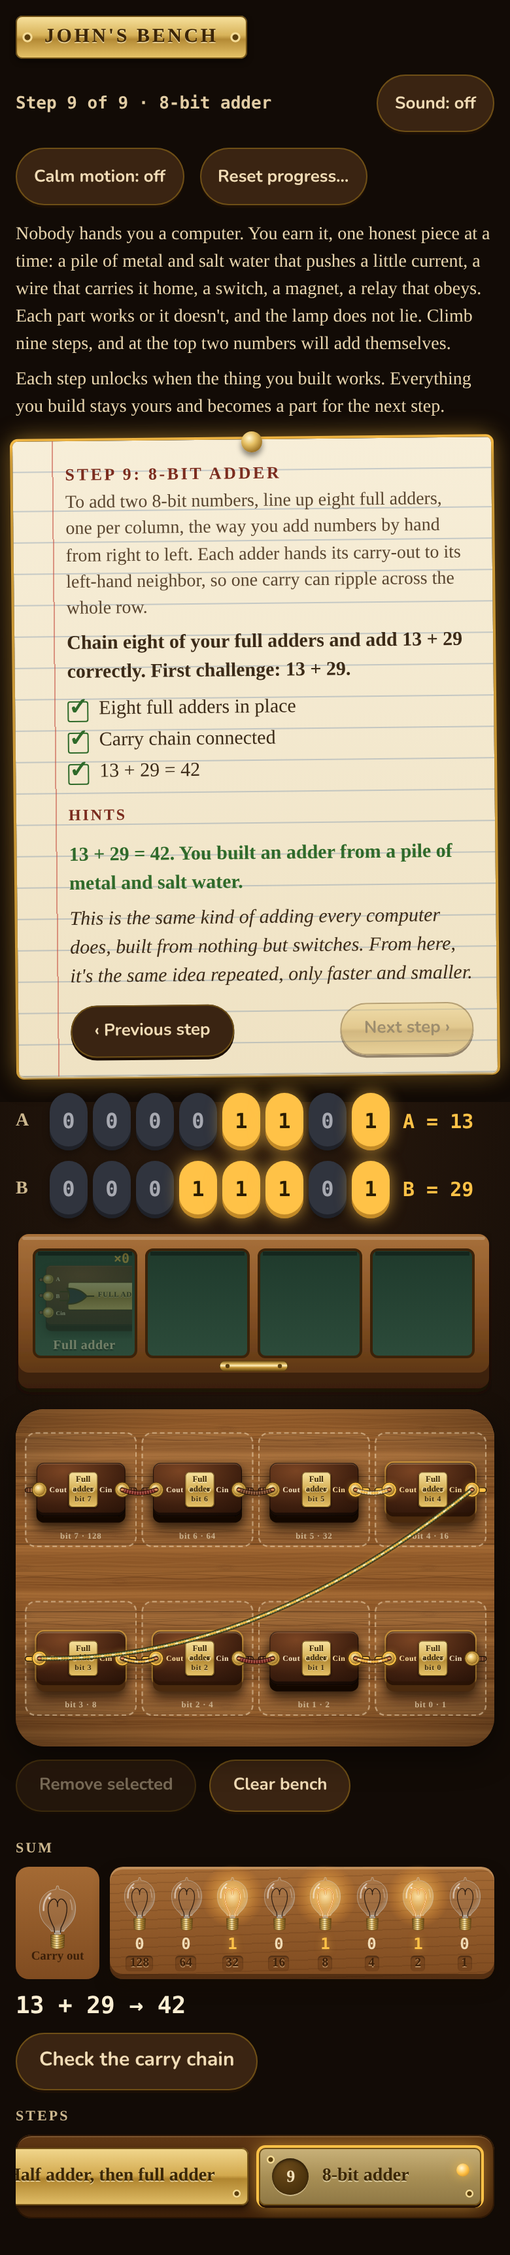
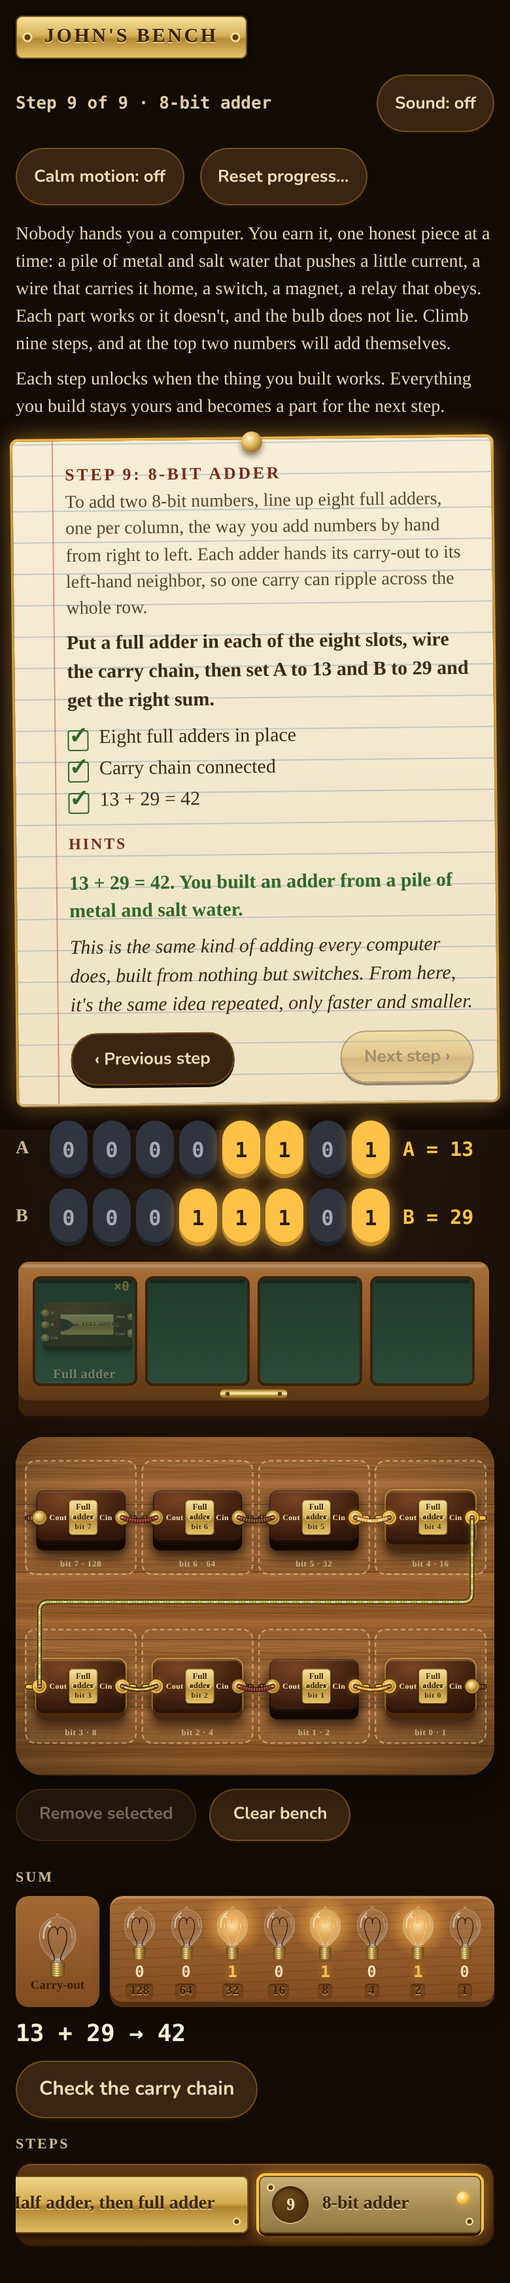
Ladder: Joseph's text pass (tooltips, bulb wording, step 7 challenges, step 9 goal)
- Load docs/ladder-tooltips.json (exact key, else most specific * pattern) as
  title attributes, or SVG <title> on wires, for static and dynamic ids
- Parse Step 7 'Challenge N' lines and show the current one; {target} in the
  goal is now the next target, and the success line names the number just made ({made})
- #test-ripple keeps the 13 + 29 = 42 reminder next to 'Carry chain connected: ✓'
- UI strings per Joseph: bulb wording, short/buzz/rowBad/relayPath, Carry-out,
  binClear 'All bulbs off', outPart
- Fit the full-adder tray thumbnail; on phones the bit 3 -> bit 4 carry runs along the gap
- Tests: ladder 33/33, classic 29/29

diff --git a/js/ladder/app.js b/js/ladder/app.js
@@ -13,22 +13,23 @@
     parts: { cell: 'Cell', pile: 'Your pile', lamp: 'Bulb', knife: 'Knife switch', 'knife-a': 'Switch A', 'knife-b': 'Switch B', magnet: 'Electro- magnet', relay: 'Relay',
       NOT: 'NOT', AND: 'AND', OR: 'OR', XOR: 'XOR', HALF: 'Half adder', FULL: 'Full adder' },
     pileRemove: 'Remove top cell', pileFlip: (k, f) => `Cell ${k}, ${f ? 'copper' : 'zinc'} at the bottom. Click to flip it.`,
-    pileTooMuch: 'More than 3 volts: too much push for the small bulb.', pileVolts: v => `${v.toFixed(1)} V`,
+    pileTooMuch: 'More than 3 volts: too much push for the small bulb. Take a cell off.', pileVolts: v => `${v.toFixed(1)} V`,
     magnetTurns: t => `${t} turns`, magnetMore: 'More turns', magnetLess: 'Fewer turns', magnetInsulated: ['Wire: bare copper', 'Wire: insulated'],
     magnetNone: 'Put the electromagnet on the bench first.',
-    status: { short: 'Short circuit! The pile is wired straight back to itself, so nothing else gets any current.', buzz: 'A relay keeps switching itself on and off (a buzzer).',
-      lit: 'The lamp is lit.', dark: 'The lamp is dark: there is no complete loop through it yet.', grab: 'The magnet is holding the iron.',
+    status: { short: "Short circuit! The two ends of your pile are wired straight together, so the current takes that shortcut and skips everything else.", buzz: 'A relay keeps switching itself on and off, like a buzzer.',
+      lit: 'The bulb is lit.', dark: 'The bulb is dark: there is no complete loop through it yet.', grab: 'The magnet is holding the iron.',
       weak: 'Current is flowing, but the magnet is too weak to lift the iron.', conflict: 'Two outputs are wired together. Each wire should be driven by just one output.' },
     checks: { 1: ['3 volts'], 2: ['The bulb lights'], 3: ['On', 'Off', 'On'], 4: ['Picks up the iron', 'Drops it when switched off'],
       5: ['Normally open relay', 'Normally closed relay'], 6: ['NOT', 'AND', 'OR', 'XOR'], 7: ['13', '29', '42'], 8: ['Half adder', 'Full adder'],
       9: ['Eight full adders in place', 'Carry chain connected', '13 + 29 = 42'] },
     needRelays: n => `Build it with relays: use at least ${n} relay${n > 1 ? 's' : ''}.`,
-    rowBad: 'Not yet: the rows marked ✗ give the wrong lamp.', relayPath: 'The lamp must be switched through a relay contact, not straight through the input switch.',
+    rowBad: "Not yet: the rows marked ✗ don't match the truth table.", relayPath: 'The bulb must be switched through a relay contact, not straight through the input switch.',
     shortRow: 'Short circuit in a row marked ✗.', lampNeeded: 'Put one bulb on the bench as the output.', inputsNeeded: k => `Put ${k} on the bench as the input${k.includes(' and ') ? 's' : ''}.`,
-    challenge: (i, n) => `Challenge ${i} of ${n}`, value: v => `= ${v}`, operand: (k, v) => `${k} = ${v}`, sum: 'Sum', carryOut: 'Carry out',
-    nineBit: i => `bit ${i}`, slot: i => `bit ${i} · ${1 << i}`, tableHead: { lamp: 'Lamp', want: 'Should be', got: 'Got', ok: '' }, on: 'on', off: 'off',
+    challenge: (i, n) => `Challenge ${i} of ${n}`, value: v => `= ${v}`, operand: (k, v) => `${k} = ${v}`, sum: 'Sum', carryOut: 'Carry-out',
+    nineBit: i => `bit ${i}`, slot: i => `bit ${i} · ${1 << i}`, tableHead: { lamp: 'Bulb', want: 'Should be', got: 'Got', ok: '' }, on: 'on', off: 'off',
     tabs6: { NOT: 'NOT', AND: 'AND', OR: 'OR', XOR: 'XOR' }, tabs8: { half: 'Half adder', full: 'Full adder' },
-    inLabel: { A: 'A', B: 'B', Cin: 'Cin' }, outLabel: { out: 'Lamp', S: 'Sum', C: 'Carry', Cout: 'Cout' }
+    inLabel: { A: 'A', B: 'B', Cin: 'Cin' }, outLabel: { out: 'Bulb', S: 'Sum', C: 'Carry', Cout: 'Cout' }, outPart: l => `Bulb ${l}`,
+    binClear: 'All bulbs off', nineReminder: (a, b, s) => `Now set A to ${a} and B to ${b}: the sum should be ${s}.`
   };
   const KEY = 'adder-ladder-v1', TARGET_VOLTS = 3, BIN_TARGETS = [13, 29, 42], NINE = { a: 13, b: 29 };
   const qs = new URLSearchParams(location.search), UNLOCK_ALL = qs.get('unlock') === 'all';
@@ -92,13 +93,20 @@
   /* ---------------- goal card ---------------- */
   function vars(n) {
     const v = { targetVolts: TARGET_VOLTS, volts: TARGET_VOLTS, a: NINE.a, b: NINE.b, sum: NINE.a + NINE.b };
-    if (n === 7) { const t = BIN_TARGETS[Math.min(S.bin.idx, BIN_TARGETS.length - 1)]; v.target = run.binShown != null ? run.binShown : t; v.binary = v.target.toString(2).padStart(8, '0'); }
+    if (n === 7) {
+      /* {target} in the Goal is the next number to make; {made} is the one just made. Joseph's Success line uses {target}
+         for the number just made, so the Success line is filled with target = made (see goalCard). */
+      const next = BIN_TARGETS[Math.min(S.bin.idx, BIN_TARGETS.length - 1)];
+      const made = run.binShown != null ? run.binShown : done(7) ? BIN_TARGETS[BIN_TARGETS.length - 1] : null;
+      v.target = next; v.made = made != null ? made : next; v.binary = v.made.toString(2).padStart(8, '0');
+    }
     if (n === 6) v.gate = run.gateShown || 'XOR';
     if (n === 8) v.module = run.moduleShown || T.steps[8].goals['Full adder'] && 'Full adder';
     return v;
   }
   function goalCard() {
     const n = cur, st = T.steps[n], V = vars(n), F = s => esc(T && LADDER_TEXT.fill(s, V));
+    const FS = s => esc(LADDER_TEXT.fill(s, n === 7 ? Object.assign({}, V, { target: V.made }) : V));
     let sub = '';
     if (n === 6) sub = `<p class="subgoal" id="subgoal">${F(st.goals[sub6])}</p>`;
     if (n === 8) sub = `<p class="subgoal" id="subgoal">${F(st.goals[sub8 === 'half' ? 'Half adder' : 'Full adder'])}</p>`;
@@ -106,7 +114,7 @@
       `<div class="goal-card${done(n) ? ' met' : ''}" id="goal-card"><h3 id="step-title">Step ${n}: ${esc(st.title)}</h3>` +
       `<p class="intro">${F(st.intro)}</p><p class="goal" id="step-goal">${F(st.goal)}</p>${sub}<ul class="checks" id="checks"></ul>` +
       `<details class="hints" id="step-hints"><summary id="hints-toggle">${UI.hints}</summary>${st.hints.map((h, i) => `<p id="hint-${i + 1}">${F(h)}</p>`).join('')}</details>` +
-      `<p class="success" id="step-success"${run.success || done(n) ? '' : ' hidden'}>${F(st.success)}</p>` +
+      `<p class="success" id="step-success"${run.success || done(n) ? '' : ' hidden'}>${FS(st.success)}</p>` +
       `<p class="learned" id="step-learned"${done(n) ? '' : ' hidden'}>${F(st.learned)}</p>` +
       `<div class="stepnav"><button class="btn" id="prev-step" type="button"${n > 1 ? '' : ' disabled'}>${UI.prev}</button>` +
       `<button class="btn primary" id="next-step" type="button"${n < 9 && unlocked(n + 1) ? '' : ' disabled'}>${UI.next}</button></div></div>`;
@@ -164,7 +172,7 @@
     const kind = { 'knife-a': 'knife', 'knife-b': 'knife' }[key] || key;
     return Object.assign({ key, kind, name: UI.parts[key], max }, key === 'pile' ? { cells: pileCells() } : {}, key === 'knife-a' ? { label: 'A' } : {}, key === 'knife-b' ? { label: 'B' } : {}, extra || {});
   };
-  const partName = p => (p.label && UI.parts[p.key] ? UI.parts[p.key] : (p.kind === 'IN' ? 'Input ' + p.label : p.kind === 'OUT' ? 'Lamp ' + p.label : UI.parts[p.key || p.kind] || UI.parts[p.kind] || p.kind)).replace('- ', '');
+  const partName = p => (p.label && UI.parts[p.key] ? UI.parts[p.key] : (p.kind === 'IN' ? 'Input ' + p.label : p.kind === 'OUT' ? (p.label === UI.outLabel.out ? p.label : UI.outPart(p.label)) : UI.parts[p.key || p.kind] || UI.parts[p.kind] || p.kind)).replace('- ', '');
   function mkBench(host, key, cfg) {
     const b = new root.Bench(host, Object.assign({
       state: S.benches[key], ui: UI, partName,
@@ -178,7 +186,7 @@
   function step1(w) {
     const cells = (S.benches.pile1 && S.benches.pile1.cells) || (S.pile ? S.pile.map(c => Object.assign({}, c)) : []);
     w.innerHTML =
-      `<div class="bn-scene scene pile-scene" id="bench">${root.BENCH.benchTop()}<div class="pile-holder" id="pile-drop"><div class="pile-art" id="pile-art"></div><div class="pile-cells" id="pile-cells"></div></div>` +
+      `<div class="bn-scene scene pile-scene" id="bench" data-notip>${root.BENCH.benchTop()}<div class="pile-holder" id="pile-drop"><div class="pile-art" id="pile-art"></div><div class="pile-cells" id="pile-cells"></div></div>` +
       `<div class="meter-box"><div id="pile-meter"></div><output class="volts" id="pile-volts"></output></div></div>` +
       `<div class="bench-tools"><button class="btn bench-btn" id="pile-remove" type="button">${UI.pileRemove}</button><p class="bench-status" id="bench-status" aria-live="polite"></p></div>` +
       `<div class="tray-wrap"><div class="tray-label">${UI.tray}</div><div class="tray" id="tray"><div class="tray-box">${root.BENCH_ART.tray}` +
@@ -371,16 +379,17 @@
 
   /* Step 7: binary with eight bulbs */
   function step7(w) {
-    w.innerHTML = `<div class="bn-scene scene bin-scene" id="bench">${root.BENCH.benchTop()}<p class="challenge" id="bin-challenge"></p><div id="bin-row"></div>` +
+    w.innerHTML = `<div class="bn-scene scene bin-scene" id="bench" data-notip>${root.BENCH.benchTop()}<p class="challenge" id="bin-challenge"></p><div id="bin-row"></div>` +
       `<div class="bin-switches" id="bin-switches">${[7, 6, 5, 4, 3, 2, 1, 0].map(i => `<button type="button" class="bin-sw" id="bin-bit-${i}" data-bit="${i}" aria-pressed="false" aria-label="Bulb worth ${1 << i}"><span>${1 << i}</span></button>`).join('')}</div>` +
-      `<p class="bin-value"><output id="bin-value">0</output></p></div><div class="bench-tools"><button class="btn bench-btn" id="bin-clear" type="button">${UI.clear}</button></div>`;
+      `<p class="bin-value"><output id="bin-value">0</output></p></div><div class="bench-tools"><button class="btn bench-btn" id="bin-clear" type="button">${UI.binClear}</button></div>`;
     let v = S.bin.value || 0;
     root.BENCH.binaryRow($('#bin-row'), v);
     const sync = (loud) => {
       $$('.bin-sw').forEach(b => b.setAttribute('aria-pressed', (v >> +b.dataset.bit) & 1 ? 'true' : 'false'));
       $('#bin-value').textContent = UI.value(v); $('#bin-value').dataset.value = v;
       const idx = Math.min(S.bin.idx, BIN_TARGETS.length - 1);
-      $('#bin-challenge').textContent = done(7) ? '' : UI.challenge(idx + 1, BIN_TARGETS.length);
+      $('#bin-challenge').textContent = done(7) ? '' : (T.steps[7].challenges[idx] || UI.challenge(idx + 1, BIN_TARGETS.length));
+      $('#bin-challenge').dataset.target = done(7) ? '' : BIN_TARGETS[idx];
       if (root.SFX) root.SFX.hum(v > 0);
       S.bin.value = v; save();
       if (loud && !done(7) && v === BIN_TARGETS[S.bin.idx]) {
@@ -470,23 +479,57 @@
       mode: 'logic', tray: [trayItem('FULL', 8)], slots: nineSlots, size: { desk: [1240, 250], mob: [624, 440] },
       modulePins: p => [[['Cout', 'out']], [['Cin', 'in']], p.slot != null ? UI.nineBit(p.slot) : ''],
       logicExtra: b => extra(b, S.nine.a, S.nine.b), status: logicStatus,
+      /* phone layout (two rows): a wire between the rows runs along the gap between them instead of cutting across the modules */
+      wireRoute: (p, q, b) => {
+        if (!b.mob || !b.slots[3] || !b.slots[4]) return null;
+        const top = b.slots[4].y + b.slots[4].h, bot = b.slots[3].y, mid = (top + bot) / 2;
+        return (Math.min(p.y, q.y) < top && Math.max(p.y, q.y) > bot) ? [[p.x, mid], [q.x, mid]] : null;
+      },
       check: (b, why) => { if (why === 'move') b.renderAll(); evaluate(b, why); }
     });
     $$('.nine-bit').forEach(btn => btn.addEventListener('click', () => { const k = btn.dataset.k; S.nine[k] ^= 1 << +btn.dataset.bit; save(); sync(); SFX('knife-switch-close', { vol: .2 }); bench.run('inputs'); }));
     $('#test-ripple').addEventListener('click', () => {
       const e = evaluate(bench, 'test'), m = $('#tt-msg');
-      m.textContent = !e.placed ? UI.checks[9][0] + ': ✗' : !e.chain ? UI.checks[9][1] + ': ✗' : (S.nine.a === NINE.a && S.nine.b === NINE.b ? '' : UI.checks[9][2]);
-      m.className = 'tt-msg' + (e.placed && e.chain ? ' ok' : ' bad');
-      if (e.placed && e.chain) m.textContent = UI.checks[9][1] + ': ✓';
+      const ok = e.placed && e.chain, setRight = S.nine.a === NINE.a && S.nine.b === NINE.b;
+      const lines = !e.placed ? [UI.checks[9][0] + ': ✗'] : !e.chain ? [UI.checks[9][1] + ': ✗']
+        : [UI.checks[9][1] + ': ✓', setRight ? UI.checks[9][2] + (done(9) ? ': ✓' : '') : UI.nineReminder(NINE.a, NINE.b, NINE.a + NINE.b)];
+      m.innerHTML = lines.map((t, i) => `<span class="tt-line" id="tt-msg-${i + 1}">${esc(t)}</span>`).join('<br>');
+      m.className = 'tt-msg' + (ok ? ' ok' : ' bad');
     });
     sync(); evaluate(bench, 'render');
+  }
+
+  /* ---------------- tooltips: Joseph's docs/ladder-tooltips.json, verbatim ----------------
+     Exact key first, else the most specific * pattern (* = one dash-free id segment). Joseph's loader, unchanged. */
+  let TIPS = {};
+  const tipFor = (id, tips) => tips['#' + id] || Object.keys(tips).filter(k => k.includes('*')).map(k => [k, new RegExp('^' + k.replace(/\*/g, '[^-]+') + '$')]).filter(([, re]) => re.test('#' + id)).sort((a, b) => b[0].replace(/\*/g, '').length - a[0].replace(/\*/g, '').length).map(([k]) => tips[k])[0];
+  const SVG_NS = 'http://www.w3.org/2000/svg';
+  function tipEl(el) {
+    if (!el.id || el.closest('[data-notip]') === el) return;
+    const t = tipFor(el.id, TIPS); if (!t) return;
+    if (el instanceof SVGElement) {        /* SVG has no title attribute: use a <title> child */
+      let ti = el.firstElementChild; if (!ti || ti.tagName !== 'title') { ti = document.createElementNS(SVG_NS, 'title'); el.insertBefore(ti, el.firstChild); }
+      if (ti.textContent !== t) ti.textContent = t;
+    } else if (el.getAttribute('title') !== t) el.setAttribute('title', t);
+  }
+  function applyTips(scope) { const r = scope || document; if (r.id) tipEl(r); r.querySelectorAll && r.querySelectorAll('[id]').forEach(tipEl); }
+  function watchTips() {
+    applyTips($('#ladder-app'));
+    new MutationObserver(ms => ms.forEach(m => {
+      if (m.type === 'attributes') tipEl(m.target);
+      else m.addedNodes.forEach(n => { if (n.nodeType === 1 && n.tagName !== 'title') applyTips(n); });
+    })).observe($('#ladder-app'), { childList: true, subtree: true, attributes: true, attributeFilter: ['id'] });
+  }
+  async function loadTips() {
+    try { const r = await fetch('docs/ladder-tooltips.json', { cache: 'no-cache' }); if (r.ok) { TIPS = await r.json(); delete TIPS._format; } } catch (e) { TIPS = {}; }
   }
 
   /* ---------------- boot ---------------- */
   async function boot() {
     root.BENCH.installDefs();
     try { T = await LADDER_TEXT.load(); } catch (e) { $('#ladder-app').innerHTML = `<p class="load-error">Could not load docs/ladder-text.md (${esc(e.message)}). Serve this folder over http, e.g. python3 -m http.server.</p>`; return; }
-    S = load(); shell();
+    await loadTips();
+    S = load(); shell(); watchTips();
     let n = +qs.get('step') || S.step || 1; if (!unlocked(n)) n = 1;
     if (qs.get('gate') && G6.includes(qs.get('gate').toUpperCase())) sub6 = qs.get('gate').toUpperCase();
     if (qs.get('adder') === 'full') sub8 = 'full';
@@ -494,6 +537,6 @@
     LADDER.ready = true; document.documentElement.dataset.ready = '1';
   }
   const LADDER = root.LADDER = { ready: false, fast: false, UI, go, get S() { return S; }, get bench() { return bench; }, get step() { return cur; }, get T() { return T; },
-    unlocked, done, resetProgress, setSub: (k, v) => { if (k === 6) sub6 = v; if (k === 8) sub8 = v; } };
+    unlocked, done, resetProgress, tipFor: id => tipFor(id, TIPS), get tips() { return TIPS; }, setSub: (k, v) => { if (k === 6) sub6 = v; if (k === 8) sub8 = v; } };
   if (document.readyState === 'loading') document.addEventListener('DOMContentLoaded', boot); else boot();
 })(window);

diff --git a/tests/addertest.js b/tests/addertest.js
@@ -184,10 +184,23 @@ const TXT = require(path.join(ROOT, 'js/ladder/text.js')); const MD = TXT.parse(
   // ---------- 10. Step 7: binary ----------
   p = await open('?unlock=all&step=7', { clear: true });
   const setBin = async v => { const cur = await ev(p, () => +document.querySelector('#bin-value').dataset.value); for (let i = 0; i < 8; i++) if (((cur ^ v) >> i) & 1) await p.click('#bin-bit-' + i); };
-  await setBin(12); const d12 = await isDone(p, 7);
-  await setBin(13); const s13 = await ev(p, () => [document.querySelector('#step-success').textContent, LADDER.S.bin.idx, [...document.querySelectorAll('#bin-row .bb.on')].map(e => e.dataset.bit).join('')]);
-  await setBin(29); await setBin(42);
-  ok('Step 7: 12 is not 13; 13 lights bulbs 8+4+1 (success text "That\'s 13, written 00001101"); 29 then 42 complete the step', !d12 && s13[0] === TXT.fill(MD.steps[7].success, { target: 13, binary: '00001101' }) && s13[1] === 1 && s13[2] === '320' && await isDone(p, 7), JSON.stringify(s13));
+  const st7 = () => ev(p, () => ({ goal: document.querySelector('#step-goal').textContent, ch: document.querySelector('#bin-challenge').textContent, tgt: document.querySelector('#bin-challenge').dataset.target,
+    succ: document.querySelector('#step-success').hidden ? null : document.querySelector('#step-success').textContent, idx: LADDER.S.bin.idx, lit: [...document.querySelectorAll('#bin-row .bb.on')].map(e => e.dataset.bit).join('') }));
+  const G7 = t => TXT.fill(MD.steps[7].goal, { target: t }), S7 = (t, bin) => TXT.fill(MD.steps[7].success, { target: t, binary: bin });
+  const c0 = await st7();
+  await setBin(12); const d12 = await isDone(p, 7), c12 = await st7();
+  await setBin(13); const s13 = await st7();
+  await setBin(29); const s29 = await st7();
+  await setBin(42); const s42 = await st7();
+  ok('Step 7: 12 is not 13; 13 lights bulbs 8+4+1 (success text "That\'s 13, written 00001101"); 29 then 42 complete the step', !d12 && s13.succ === S7(13, '00001101') && s13.idx === 1 && s13.lit === '320' && await isDone(p, 7), JSON.stringify(s13));
+  ok('Step 7 target progression: goal + Joseph\'s challenge line move 13 -> 29 -> 42; success names the number just made',
+    MD.steps[7].challenges.length === 3 && c0.goal === G7(13) && c0.ch === MD.steps[7].challenges[0] && c0.tgt === '13' && c12.goal === G7(13) && c12.succ === null &&
+    s13.goal === G7(29) && s13.ch === MD.steps[7].challenges[1] && s13.tgt === '29' &&
+    s29.goal === G7(42) && s29.ch === MD.steps[7].challenges[2] && s29.succ === S7(29, '00011101') &&
+    s42.succ === S7(42, '00101010') && s42.ch === '' && [13, 29, 42].every((t, i) => MD.steps[7].challenges[i].startsWith('Make ' + t + '.') && MD.steps[7].challenges[i].endsWith(t.toString(2).padStart(8, '0') + '.')),
+    JSON.stringify({ c0, s13, s29, s42 }));
+  await p.click('#bin-clear'); r = await ev(p, () => [document.querySelector('#bin-clear').textContent, document.querySelector('#bin-value').dataset.value]);
+  ok('Step 7: #bin-clear reads "' + 'All bulbs off" and turns every bulb off', r[0] === 'All bulbs off' && r[1] === '0', JSON.stringify(r));
   await p.close();
 
   // ---------- 11. Step 8: half adder then full adder ----------
@@ -230,6 +243,47 @@ const TXT = require(path.join(ROOT, 'js/ladder/text.js')); const MD = TXT.parse(
     slots === '01234567' && !part[1] && broken[0] !== 42 && !broken[1] && r.a === 13 && r.b === 29 && r.sum === 42 && r.lit === '531' && r.done && r.succ === TXT.fill(MD.steps[9].success, { a: 13, b: 29, sum: 42 }) && ov[0] === (140 + 157) % 256 && ov[1] === 1,
     JSON.stringify({ slots, part, broken, r, ov }));
   await p.close();
+
+  // ---------- 12b. Step 9: the #test-ripple message keeps the 13 + 29 = 42 reminder ----------
+  p = await open('?unlock=all&step=9', { clear: true });
+  { const fb = []; for (let i = 0; i < 8; i++) fb.push(await place(p, 'FULL'));
+    const msg = () => ev(p, () => [...document.querySelectorAll('#tt-msg .tt-line')].map(e => e.textContent));
+    await p.click('#test-ripple'); const m0 = await msg();
+    for (let i = 0; i < 7; i++) await wire(p, fb[i], 'Cout', fb[i + 1], 'Cin');
+    await p.click('#test-ripple'); const m1 = await msg(), d1 = await isDone(p, 9);
+    for (const [k, v] of [['a', 13], ['b', 29]]) for (let i = 0; i < 8; i++) if ((v >> i) & 1) await p.click(`#nine-${k}-bit-${i}`);
+    await p.click('#test-ripple'); const m2 = await msg();
+    const U = await ev(p, () => LADDER.UI), goal = await ev(p, () => document.querySelector('#step-goal').textContent);
+    ok('Step 9 message: no chain -> "Carry chain connected: ✗"; chain but A/B unset -> chain ✓ AND the 13 + 29 reminder; 13 + 29 -> chain ✓ and "13 + 29 = 42: ✓"; new Goal text filled',
+      m0.length === 1 && m0[0] === 'Carry chain connected: ✗' && m1.length === 2 && m1[0] === 'Carry chain connected: ✓' && m1[1] === 'Now set A to 13 and B to 29: the sum should be 42.' && !d1 &&
+      m2.length === 2 && m2[0] === 'Carry chain connected: ✓' && m2[1] === '13 + 29 = 42: ✓' && await isDone(p, 9) && goal === TXT.fill(MD.steps[9].goal, { a: 13, b: 29 }) && !/\{/.test(goal),
+      JSON.stringify({ m0, m1, m2, goal })); }
+  await p.close();
+
+  // ---------- 12c. tooltips from docs/ladder-tooltips.json ----------
+  { const TIPS = JSON.parse(fs.readFileSync(path.join(ROOT, 'docs/ladder-tooltips.json'), 'utf8')); delete TIPS._format;
+    p = await open('?unlock=all&step=5', { clear: true });
+    const pl = await place(p, 'pile'), lp = await place(p, 'lamp'), rl = await place(p, 'relay');
+    await wire(p, pl, '+', lp, 'a'); await sleep(60);
+    const t = await ev(p, (pl, lp, rl) => {
+      const tt = id => { const e = document.getElementById(id); if (!e) return null; if (e instanceof SVGElement) { const c = e.querySelector(':scope > title'); return c ? c.textContent : null; } return e.getAttribute('title'); };
+      const w = LADDER.bench.wires[0];
+      return { stat: ['sound-toggle', 'motion-toggle', 'reset-progress', 'reset-confirm', 'step-nav-5', 'hints-toggle', 'tray-relay', 'tray-lamp', 'bench-delete', 'bench-clear', 'bench-stage'].map(i => [i, tt(i)]),
+        dyn: [['part-' + rl, tt('part-' + rl)], ['term-' + pl + '-pos', tt('term-' + pl + '-pos')], ['term-' + pl + '-neg', tt('term-' + pl + '-neg')], ['term-' + rl + '-com', tt('term-' + rl + '-com')], ['wire-' + w.id, tt('wire-' + w.id)]],
+        aria: document.getElementById('term-' + pl + '-pos').getAttribute('aria-label'), sel: LADDER.tipFor('term-' + pl + '-pos') };
+    }, pl, lp, rl);
+    const want = (id, key) => TIPS[key || '#' + id];
+    const statOk = t.stat.every(([i, v]) => v === want(i));
+    const dynOk = t.dyn[0][1] === TIPS['#part-*'] && t.dyn[1][1] === TIPS['#term-*-pos'] && t.dyn[2][1] === TIPS['#term-*-neg'] && t.dyn[3][1] === TIPS['#term-*-*'] && t.dyn[4][1] === TIPS['#wire-*'];
+    await p.close();
+    p = await open('?unlock=all&step=8', { clear: true });
+    const t8 = await ev(p, () => ['part-inA', 'part-inB', 'part-outS', 'part-outC', 'adder-tab-full', 'test-half'].map(i => [i, document.getElementById(i) && document.getElementById(i).getAttribute('title')]));
+    await ev(p, () => LADDER.go(1)); await sleep(80); await p.click('#tray-cell'); await p.waitForSelector('#pile-cell-1'); await sleep(80);
+    const t1 = await ev(p, () => [document.querySelector('#tray-cell').title, document.querySelector('#pile-cell-1').title, document.querySelector('#bench').hasAttribute('title')]);
+    await p.close();
+    ok('tooltips: Joseph\'s text as title on static controls, parts, terminals (pattern specificity: -pos/-neg beat *-*), SVG <title> on wires; aria-labels kept',
+      statOk && dynOk && t8.every(([i, v]) => v === TIPS['#' + i]) && t1[0] === TIPS['#tray-cell'] && t1[1] === TIPS['#pile-cell-*'] && !t1[2] && /\S/.test(t.aria || '') && t.sel === TIPS['#term-*-pos'],
+      JSON.stringify({ stat: t.stat.filter(([i, v]) => v !== want(i)), dyn: t.dyn, t8, t1, aria: t.aria })); }
 
   // ---------- 13. unlock flow end to end + reset ----------
   p = await open('', { clear: true });

diff --git a/js/ladder/art.js b/js/ladder/art.js
@@ -94,8 +94,20 @@
   const spark = g => root.BENCH.spark(g);
   const burst = (host, x, y) => root.BENCH.burst(host, x, y);
   /* cloth-covered wire: Henri's BENCH.wire, plus an id and a wide invisible hit path so a wire can be picked */
-  function wireSvg(id, p, q, color) {
-    const g = root.BENCH.wire(+p.x.toFixed(1), +p.y.toFixed(1), +q.x.toFixed(1), +q.y.toFixed(1), { color: color || 'brown', sag: .1 });
+  /* routed wire: straight runs through the given points with rounded elbows (r px), same cloth layers as BENCH.wire */
+  function routePath(pts, r) {
+    r = r || 12; const f = n => +n.toFixed(1);
+    let d = `M${f(pts[0][0])} ${f(pts[0][1])}`;
+    for (let i = 1; i < pts.length - 1; i++) {
+      const [x0, y0] = pts[i - 1], [x1, y1] = pts[i], [x2, y2] = pts[i + 1];
+      const l1 = Math.hypot(x1 - x0, y1 - y0) || 1, l2 = Math.hypot(x2 - x1, y2 - y1) || 1, k1 = Math.min(r, l1 / 2) / l1, k2 = Math.min(r, l2 / 2) / l2;
+      d += ` L${f(x1 - (x1 - x0) * k1)} ${f(y1 - (y1 - y0) * k1)} Q${f(x1)} ${f(y1)} ${f(x1 + (x2 - x1) * k2)} ${f(y1 + (y2 - y1) * k2)}`;
+    }
+    const e = pts[pts.length - 1]; return d + ` L${f(e[0])} ${f(e[1])}`;
+  }
+  function wireSvg(id, p, q, color, route) {
+    let g = root.BENCH.wire(+p.x.toFixed(1), +p.y.toFixed(1), +q.x.toFixed(1), +q.y.toFixed(1), { color: color || 'brown', sag: .1 });
+    if (route && route.length) { const rd = routePath([[p.x, p.y]].concat(route, [[q.x, q.y]])); g = g.replace(/ d='[^']*'/g, ` d='${rd}'`); }
     const d = (g.match(/d='([^']+)'/) || [])[1];
     return g.replace('<g ', `<g id='wire-${id}' data-wire='${id}' `).replace(/(<g [^>]*>)/, `$1<path class='cw-hit' d='${d}'/>`);
   }

diff --git a/js/ladder/text.js b/js/ladder/text.js
@@ -15,7 +15,9 @@
       if (s) {
         const goals = {};
         Object.keys(f).forEach(k => { const g = k.match(/^Goal \((.+)\)$/); if (g) goals[g[1]] = f[k][0]; });
-        out.steps[+s[1]] = { n: +s[1], title: s[2], intro: (f.Intro || [])[0] || '', goal: (f.Goal || [])[0] || '', goals,
+        const challenges = [];
+        Object.keys(f).forEach(k => { const c = k.match(/^Challenge (\d+)$/); if (c) challenges[+c[1] - 1] = f[k][0]; });
+        out.steps[+s[1]] = { n: +s[1], title: s[2], intro: (f.Intro || [])[0] || '', goal: (f.Goal || [])[0] || '', goals, challenges,
           hints: f.Hint || [], success: (f.Success || [])[0] || '', learned: (f['What you learned'] || [])[0] || '' };
       } else if (/^Ladder intro/.test(title)) out.intro = f.Intro || [];
       else if (/^Reset progress/.test(title)) out.reset = { question: (f.Question || [])[0], confirm: (f.Confirm || [])[0], cancel: (f.Cancel || [])[0] };

diff --git a/css/ladder.css b/css/ladder.css
@@ -53,7 +53,8 @@ body.ladder-page{max-width:none;margin:0;padding:0;min-height:100vh;color:#f1dcb
 .tray-item .thumb svg{max-width:64px;max-height:48px;width:auto;height:auto}
 .tray-item .tname{font:700 10px/1.05 var(--bn-serif);text-align:center;letter-spacing:.03em;text-shadow:0 1px 1px #000}
 .tray-item .tcount{position:absolute;top:2px;right:4px;font:800 10px var(--mono);color:var(--bn-amber)}
-.mthumb{display:block;zoom:.4}
+.mthumb{display:flex;justify-content:center;zoom:.4}
+.mthumb .module[data-kind=FULL],.mthumb .module[data-kind=HALF]{zoom:.74}
 .mthumb .module{min-width:0;pointer-events:none}
 .tray-ghost{position:fixed;z-index:1000;pointer-events:none;transform:translate(-50%,-50%) scale(1.3);opacity:.9;filter:drop-shadow(0 10px 10px rgba(0,0,0,.5))}
 .tray-ghost svg{max-width:80px;max-height:70px}

diff --git a/js/ladder/bench.js b/js/ladder/bench.js
@@ -165,7 +165,7 @@
   P.drawWires = function () {
     if (!this.pinMap) return;
     let h = '';
-    this.wires.forEach(w => { const p = this.pt(w.a), q = this.pt(w.b); if (!p || !q) return; h += ART().wireSvg(w.id, p, q, w.color); });
+    this.wires.forEach(w => { const p = this.pt(w.a), q = this.pt(w.b); if (!p || !q) return; h += ART().wireSvg(w.id, p, q, w.color, this.cfg.wireRoute ? this.cfg.wireRoute(p, q, this) : null); });
     this.wiresEl.innerHTML = h; this.wiresEl.setAttribute('viewBox', `0 0 ${this.W} ${this.H}`);
     this.wiresEl.querySelectorAll('.cw').forEach(g => { g.classList.toggle('selected', !!(this.sel && this.sel.type === 'wire' && 'wire-' + this.sel.id === g.id)); });
     this.vis = null; if (this.res) this.show(this.res, 'render');

diff --git a/docs/ladder-text.md b/docs/ladder-text.md
@@ -4,14 +4,14 @@ Text for the 9-step ladder version of the 8-bit adder. Plain and friendly, for a
 
 **Format (for loading, like page-text.md):**
 - Each section starts with a `## ` heading. Steps are `## Step N: Title` (N = 1 to 9). The other sections are `## Ladder intro` and `## Reset progress`.
-- Inside a section, each field is one line that starts with a bold label: `**Intro:**`, `**Goal:**`, `**Hint:**`, `**Success:**`, `**What you learned:**`. Steps 6 and 8 also have one `**Goal (Name):**` line per gate or module (NOT, AND, OR, XOR; Half adder, Full adder). A step can have more than one `**Hint:**` line; show them in order.
+- Inside a section, each field is one line that starts with a bold label: `**Intro:**`, `**Goal:**`, `**Hint:**`, `**Success:**`, `**What you learned:**`. Steps 6 and 8 also have one `**Goal (Name):**` line per gate or module (NOT, AND, OR, XOR; Half adder, Full adder). Step 7 has one `**Challenge N:**` line per challenge, in order; the page doesn't show these yet, so they double as a check on the targets and answers. A step can have more than one `**Hint:**` line; show them in order.
 - `## Ladder intro` uses `**Intro:**` (one or more lines). `## Reset progress` uses `**Question:**`, `**Confirm:**` and `**Cancel:**`.
 - Text in `{curly braces}` is a placeholder for the code to fill in.
 - Field text is plain (no Markdown inside it), so it can go straight into a `<p>`, a button or a tooltip.
 
 ## Ladder intro
 
-**Intro:** Nobody hands you a computer. You earn it, one honest piece at a time: a pile of metal and salt water that pushes a little current, a wire that carries it home, a switch, a magnet, a relay that obeys. Each part works or it doesn't, and the lamp does not lie. Climb nine steps, and at the top two numbers will add themselves.
+**Intro:** Nobody hands you a computer. You earn it, one honest piece at a time: a pile of metal and salt water that pushes a little current, a wire that carries it home, a switch, a magnet, a relay that obeys. Each part works or it doesn't, and the bulb does not lie. Climb nine steps, and at the top two numbers will add themselves.
 **Intro:** Each step unlocks when the thing you built works. Everything you build stays yours and becomes a part for the next step.
 
 ## Step 1: Battery
@@ -34,8 +34,8 @@ Text for the 9-step ladder version of the 8-bit adder. Plain and friendly, for a
 
 ## Step 3: Switch
 
-**Intro:** A switch is a gap in the loop that you can close and open. Close it and current flows, so the lamp lights; open it and the lamp goes dark.
-**Goal:** Add a switch to your loop, then turn the lamp on and off with it.
+**Intro:** A switch is a gap in the loop that you can close and open. Close it and current flows, so the bulb lights; open it and the bulb goes dark.
+**Goal:** Add a switch to your loop, then turn the bulb on and off with it.
 **Hint:** Put the switch anywhere in the loop. Since it's one loop, any spot works.
 **Success:** On, off, on. You're in control of the current.
 **What you learned:** Call lit 1 and dark 0, and you have a bit. Next, you'll find a way for electricity to flip a switch instead of your finger.
@@ -52,20 +52,20 @@ Text for the 9-step ladder version of the 8-bit adder. Plain and friendly, for a
 ## Step 5: Relay
 
 **Intro:** A relay is a switch flipped by an electromagnet: current in its coil pulls a springy iron arm that opens or closes contacts in a second, separate circuit. A normally open relay closes when its coil is on; a normally closed relay opens.
-**Goal:** Use a switch in one circuit to light a lamp in another circuit through a relay, first with a normally open relay, then with a normally closed one.
-**Hint:** The relay's coil goes in the first circuit, with your switch. Its contacts go in the second circuit, with the lamp.
-**Hint:** With a normally closed relay, the lamp should be lit while your switch is off.
+**Goal:** Use a switch in one circuit to light a bulb in another circuit through a relay, first with a normally open relay, then with a normally closed one.
+**Hint:** The relay's coil goes in the first circuit, with your switch. Its contacts go in the second circuit, with the bulb.
+**Hint:** With a normally closed relay, the bulb should be lit while your switch is off.
 **Success:** One circuit is now controlling another, with no hands on the second one.
 **What you learned:** Because one switch can control the next, switches can be wired together to make decisions. Next, you'll make your first ones.
 
 ## Step 6: Gates
 
-**Intro:** A gate is a few relays wired so the lamp answers a simple question about its inputs. NOT uses a normally closed relay, AND puts two relays in a row (in series), OR puts them side by side (in parallel), and XOR is built from the others as (A OR B) AND NOT (A AND B).
+**Intro:** A gate is a few relays wired so the bulb answers a simple question about its inputs. NOT uses a normally closed relay, AND puts two relays in a row (in series), OR puts them side by side (in parallel), and XOR is built from the others as (A OR B) AND NOT (A AND B).
 **Goal:** Build NOT, AND, OR, and then XOR. Each gate is earned when it passes its whole truth table, every combination of inputs, and then it becomes a module.
-**Goal (NOT):** Wire one normally closed relay so the lamp is on when the input is off, and off when it is on.
-**Goal (AND):** Wire two relays in series so the lamp lights only when A and B are both on.
-**Goal (OR):** Wire two relays in parallel so the lamp lights when A, B or both are on.
-**Goal (XOR):** Combine your OR, AND and NOT so the lamp lights when exactly one input is on.
+**Goal (NOT):** Wire one normally closed relay so the bulb is on when the input is off, and off when it is on.
+**Goal (AND):** Wire two relays in series so the bulb lights only when A and B are both on.
+**Goal (OR):** Wire two relays in parallel so the bulb lights when A, B or both are on.
+**Goal (XOR):** Combine your OR, AND and NOT so the bulb lights when exactly one input is on.
 **Hint:** NOT: turning its input on pulls the normally closed switch open, so the output is the opposite of the input. AND lights only when A and B are both on; OR lights when either one is.
 **Hint:** XOR means one or the other, but not both. Start with the OR and AND gates you already have, then send A AND B through a NOT.
 **Success:** {gate} passes every row. It's now a module: one block you can drop into anything you build next.
@@ -74,8 +74,11 @@ Text for the 9-step ladder version of the 8-bit adder. Plain and friendly, for a
 ## Step 7: Binary
 
 **Intro:** Eight bulbs in a row can show any whole number from 0 to 255, because each bulb is worth twice the one to its right: 1, 2, 4, 8, 16, 32, 64 and 128. Add up the lit bulbs, and that's your number.
-**Goal:** Make {target} by lighting the right bulbs. First challenge: make 13.
-**Hint:** Start with the biggest bulb that fits, light it, and see what's left. For 13: 8 fits, leaving 5; then 4, leaving 1; then 1.
+**Goal:** Make {target} by lighting the right bulbs.
+**Challenge 1:** Make 13. That's 8 + 4 + 1, or 00001101.
+**Challenge 2:** Make 29. That's 16 + 8 + 4 + 1, or 00011101.
+**Challenge 3:** Make 42. That's 32 + 8 + 2, or 00101010.
+**Hint:** Start with the biggest bulb that fits, light it, and see what's left. For example, 13: 8 fits, leaving 5; then 4, leaving 1; then 1.
 **Hint:** The rightmost bulb is worth 1. Light all eight and you get 255.
 **Success:** That's {target}, written {binary} in binary.
 **What you learned:** Bits can stand for any number, not just on and off. Next, you'll build gates that add them.
@@ -94,7 +97,7 @@ Text for the 9-step ladder version of the 8-bit adder. Plain and friendly, for a
 ## Step 9: 8-bit adder
 
 **Intro:** To add two 8-bit numbers, line up eight full adders, one per column, the way you add numbers by hand from right to left. Each adder hands its carry-out to its left-hand neighbor, so one carry can ripple across the whole row.
-**Goal:** Chain eight of your full adders and add {a} + {b} correctly. First challenge: 13 + 29.
+**Goal:** Put a full adder in each of the eight slots, wire the carry chain, then set A to {a} and B to {b} and get the right sum.
 **Hint:** Bit 0, worth 1, goes on the right; bit 7, worth 128, goes on the left. Each carry-out connects to the carry-in of the adder on its left.
 **Hint:** If the true total is more than 255, it won't fit in 8 bits: the carry-out lights, and the sum shows the total minus 256. Signed overflow is something different: it's when the answer falls outside -128 to 127 if you read the bits as signed numbers.
 **Success:** {a} + {b} = {sum}. You built an adder from a pile of metal and salt water.

diff --git a/README.md b/README.md
@@ -23,7 +23,7 @@ Drag parts from the tray, or tap one to place it. Wire them by tapping or draggi
 
 Progress is saved in `localStorage`. **Reset progress** clears it, but step 1 always stays open. `?unlock=all` opens every step, and `?step=N` jumps to one. Sound is off until you turn it on. **Calm motion**, or the system's reduced-motion setting, stops the animations.
 
-The step text comes word for word from [docs/ladder-text.md](docs/ladder-text.md). The art is Henri's (`design/bench/`) and the sounds are Michael's (`design/sounds/`).
+The step text comes word for word from [docs/ladder-text.md](docs/ladder-text.md), and the tooltips from [docs/ladder-tooltips.json](docs/ladder-tooltips.json) (exact `#id` keys first, then the most specific `*` pattern). The art is Henri's (`design/bench/`) and the sounds are Michael's (`design/sounds/`).
 
 ## The classic simulator (`classic.html`)
 
@@ -122,6 +122,7 @@ eight-bit-adder/
 ├── docs/
 │   ├── page-text.md         on-page paragraphs and truth tables (read by the page)
 │   ├── ladder-text.md       step text for the ladder (read verbatim by index.html)
+│   ├── ladder-tooltips.json tooltips for the ladder's controls, parts, screws and wires, keyed by #id or pattern
 │   └── tooltips.json        tooltip text for every control, keyed by #id (read by the page)
 ├── design/
 │   ├── style.css            the visual style
